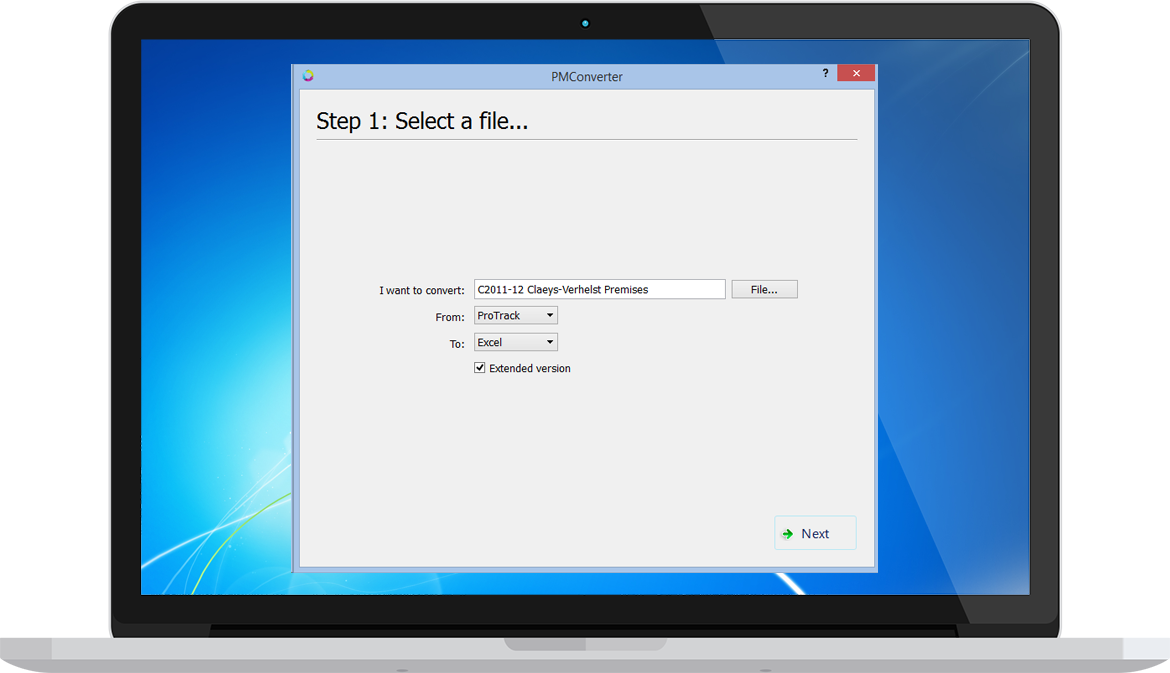
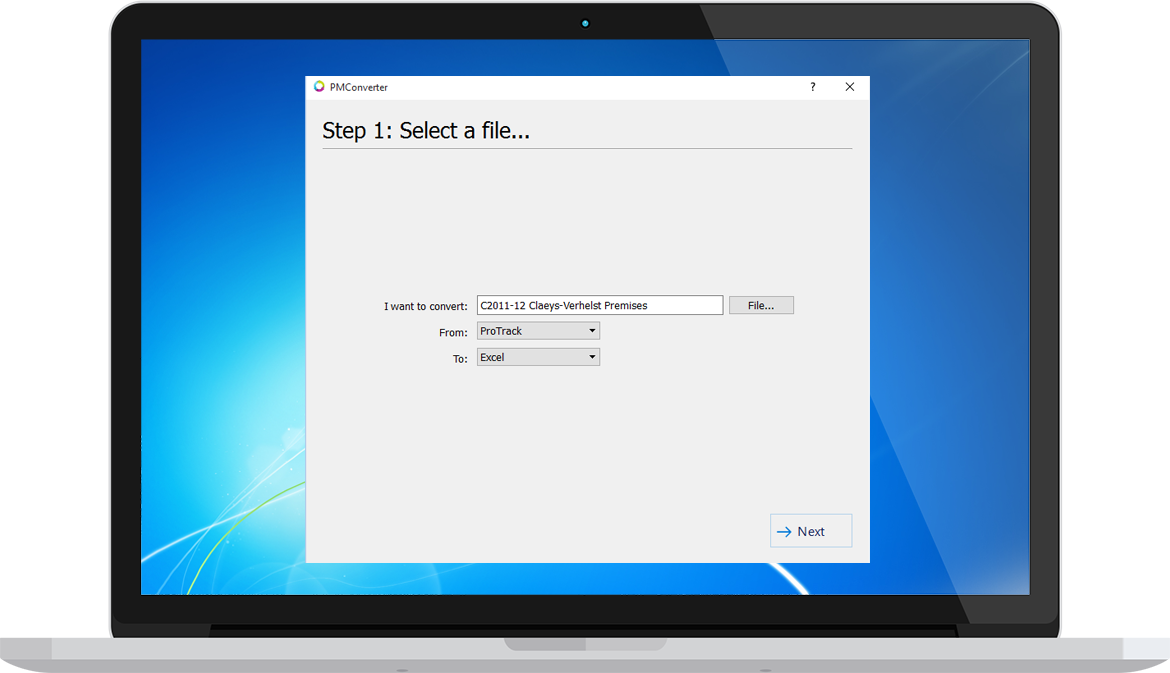
updated website with up to date screenshots

Changed region(s): [[0.1231, 0.0936, 0.7692, 0.9049], [0.3077, 0.4056, 0.6769, 0.5617]]

diff --git a/index.html b/index.html
@@ -237,7 +237,6 @@
 					<h3>Step 1:</h3>
 					<ul>
 						<li>Select the file you wish to convert and specify to which file format you wish to convert. </li>
-						<li>In case you are converting to Excel, "Extended version" can be selected. </li>
 						<li>Click on "<b>Next</b>" to continue</li>
 					</ul>
 				</div>
@@ -273,7 +272,10 @@
 				
 				<div class="col-lg-5">
 					<h3>Converted</h3>
-					<p>Your file is correctly converted! You can find it on the place indicated on the screen. </p>
+					<ul>
+						<li>Your file is correctly converted! You can find it on the place indicated on the screen.</li>
+						<li>Click on "<b>Restart</b>" to convert another file.</li>
+					</ul>
 				</div>
 			</div>	
 		</div><!-- /container -->
